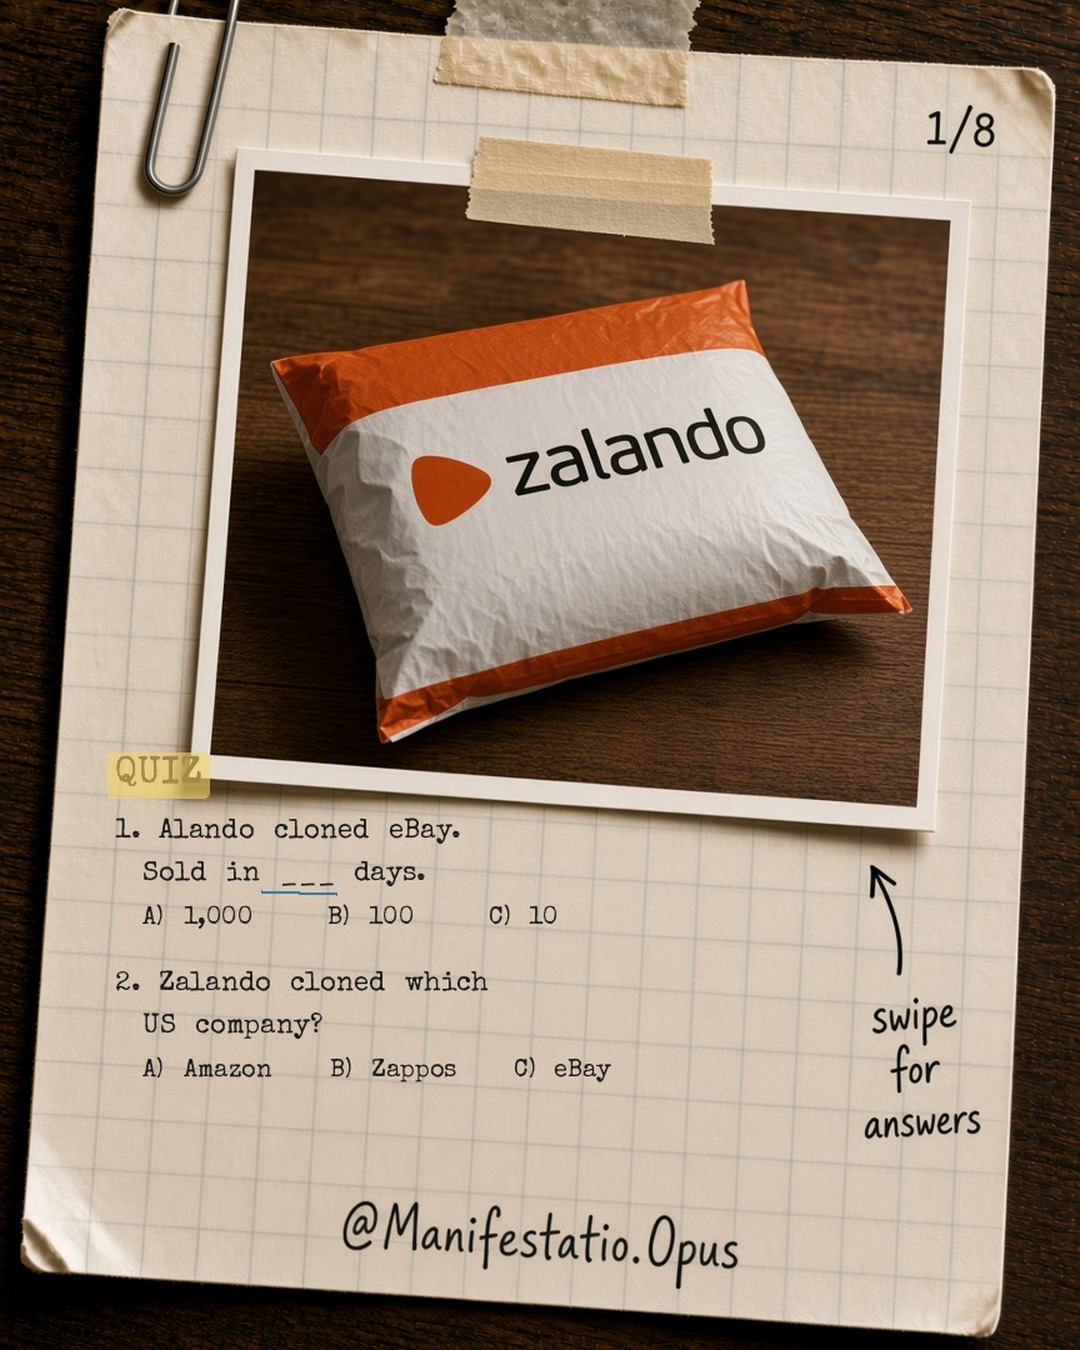
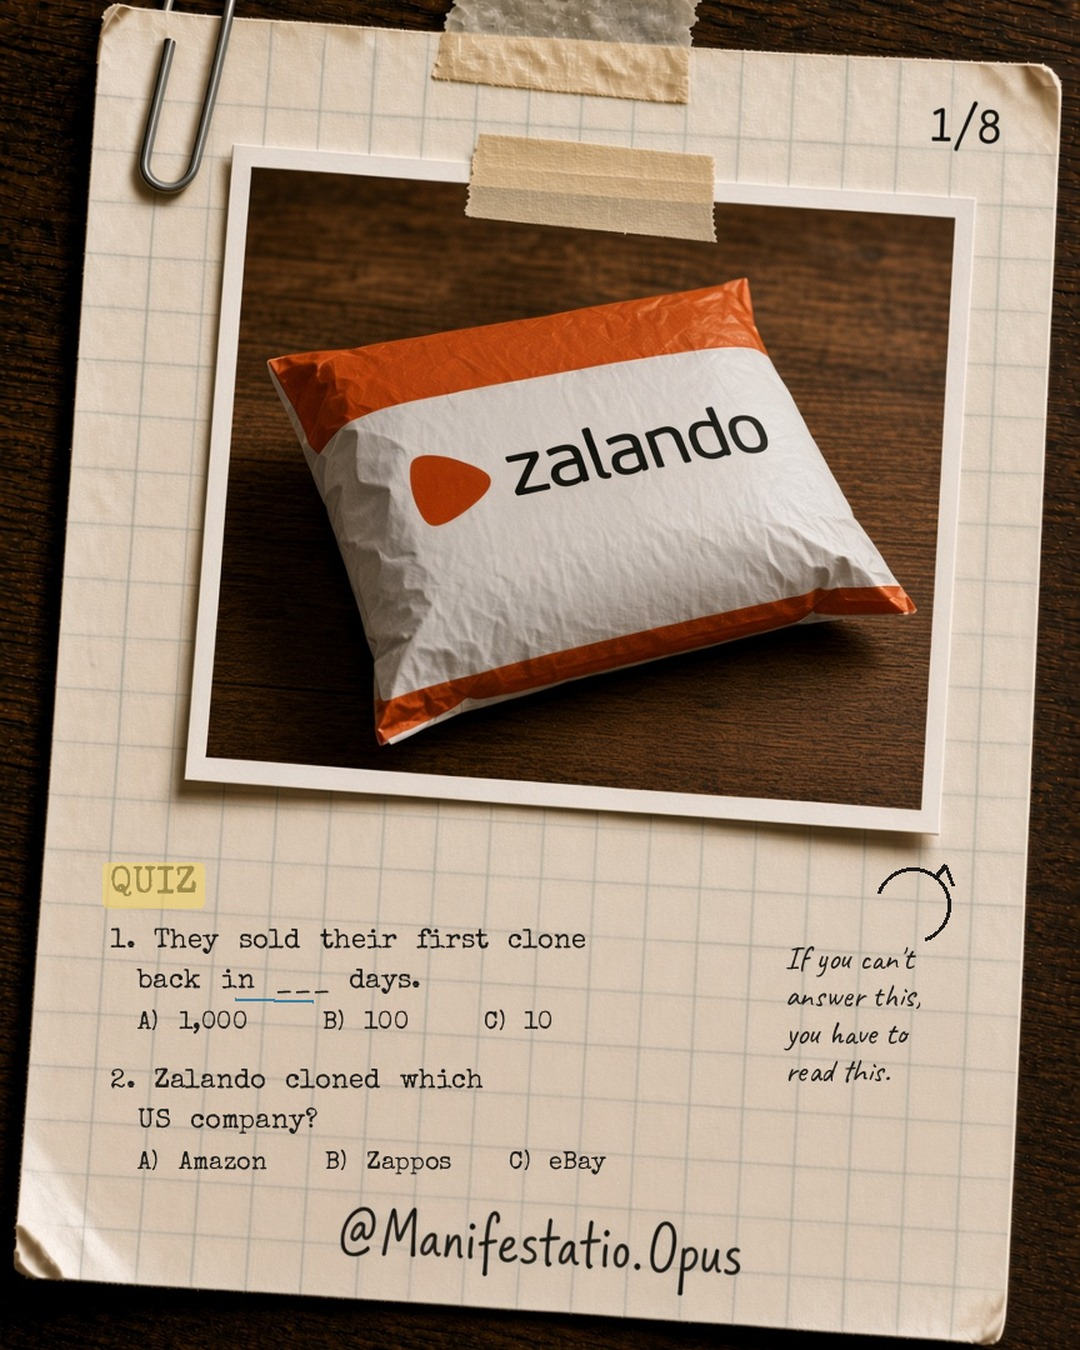
Lock quiz covers from story 4 with no-leak rules
Samwer 1/8 drops the Alando/Zalando collision, keeps answers for later slides, and uses the lock-in slogan. Hyrox, Crocs, and Dyson briefs now open the same way.

diff --git a/manifestatio-opus/IDENTITY.md b/manifestatio-opus/IDENTITY.md
@@ -66,7 +66,7 @@ Always **8 slides**.
 
 1. Cover:
    - Stories 1–3: photo + hook.
-   - **Story 4 onward:** quiz cover. 1–3 questions (multiple choice and/or fill-in-the-blank) about a surprising fact. Do **not** mark the correct answers on slide 1. Handwritten `swipe for answers`. Photo print still ~40%.
+   - **Story 4 onward:** quiz cover. Locked. See **Quiz cover (from story 4)** below.
 2–6. Mechanism, numbers, plot. Reveal quiz answers in the story, not as a scorecard.
 7. Lesson. More whitespace. One handwritten star.
 8. **Always** this exact closer:
@@ -79,6 +79,20 @@ Always **8 slides**.
 Yellow highlight on **Duolingo for business enthusiasts**. Blue arrow / underline on the last line. Handwritten `link in bio`.
 
 Body text: about **8–18 words** per slide besides the closer. No extra copy.
+
+## Quiz cover (from story 4)
+
+Locked. Every carousel from story 4 onward (Samwer, then Hyrox, Crocs, Dyson, and later weeks) opens on a quiz. Stories 1–3 keep the hook cover.
+
+- Same paper identity as every other slide: cream grid, walnut desk, typewriter body, handwritten `@Manifestatio.Opus`, `1/8`, photo print ~40%.
+- 1–3 questions. Mix multiple choice and fill-in-the-blank. Two is the default so the photo stays large.
+- Questions are about a surprising fact that the later slides actually answer. Do **not** mark the correct answers on slide 1.
+- No question may contain another question's answer. If Q1 names the company or the mechanism, Q2 cannot ask that same fact.
+- Proofread every proper noun against the brief. Lookalike names (Alando vs Zalando) must not share the quiz cover. Use the name the question needs; keep the other name for later slides.
+- Handwritten lock-in, exact line: `If you can't answer this, you have to read this.` Small swipe arrow is fine. Do not add extra slogans.
+- Reveal answers in the story slides, in the mechanism, not as a scorecard.
+
+Locked Samwer example: `week-2026-09-28/04-samwer/quiz-cover-example/01-quiz-example.jpg`.
 
 ## Signature (every slide)
 
@@ -94,4 +108,7 @@ Cream grid on walnut + `@Manifestatio.Opus` + `N/8` + one tactile object + one p
 - [ ] Slide 8 is the Manifestatio closer
 - [ ] Caption is interesting and on-voice
 - [ ] From story 4 on, cover is a quiz and does not reveal answers
+- [ ] Quiz answers appear later in the carousel; no question leaks another question's answer
+- [ ] Proper nouns match the brief (proofread lookalikes)
+- [ ] Handwritten lock-in: `If you can't answer this, you have to read this.`
 - [ ] Auto-posted to Instagram via Composio after generation

diff --git a/manifestatio-opus/week-2026-09-28/04-samwer/brief.md b/manifestatio-opus/week-2026-09-28/04-samwer/brief.md
@@ -9,7 +9,7 @@ What if the fastest way to build a billion-dollar company wasn't to innovate, bu
 ## Sourced facts (use these; do not invent)
 
 - Founders: **Marc, Oliver, and Alexander Samwer**. Rocket Internet.
-- **Alando** cloned eBay, launched 1 Mar 1999, sold to eBay **30 May 1999** (**100 days**) for about **$43 million**. Phrase: `100 days` / `~$43M`.
+- **Alando** cloned eBay, launched 1 Mar 1999, sold to eBay **30 May 1999** (**100 days**) for about **$43 million**. Phrase: `100 days` / `~$43M`. Alando is a real 1999 company, not a misspelling of Zalando. Keep `Alando` on story slides. Do **not** put Alando on the quiz cover next to Zalando.
 - **CityDeal** cloned Groupon and was sold back to Groupon in about six months for about **$126 million** in stock. Phrase: `~$126M`.
 - **Zalando** (Zappos play) IPO'd **1 Oct 2014** at about **€5.3B**. Phrase: `€5.3B`.
 - Lesson: execution often beats invention. Do not moralize beyond that. Do not invent extra deal sizes.
@@ -18,34 +18,31 @@ What if the fastest way to build a billion-dollar company wasn't to innovate, bu
 
 Zalando parcel. No faces.
 
-## Quiz cover (story 4 onward — WAIT for user lock)
+## Quiz cover (LOCKED — story 4 onward)
 
-Example is in `quiz-cover-example/01-quiz-example.jpg`. Do not replace 1/8 until the user approves.
-
-Proposed 1/8:
+Locked example: `quiz-cover-example/01-quiz-example.jpg`. This is 1/8. Do not fall back to the hook.
 
 Photo (~40%): Zalando package.
 
 `QUIZ`
 
-`1. Alando cloned eBay. Sold in ___ days.`
+`1. They sold their first clone`
+`back in ___ days.`
 `A) 1,000    B) 100    C) 10`
 
-`2. Zalando cloned which US company?`
+`2. Zalando cloned which`
+`US company?`
 `A) Amazon   B) Zappos   C) eBay`
 
-Handwritten: `swipe for answers`. Do not mark the correct answers.
+Handwritten lock-in: `If you can't answer this, you have to read this.`
+Do not mark the correct answers. Do not write Alando on this slide.
 
-If the user rejects the quiz cover, fall back to the hook line below.
+Answers later: **B) 100** on 3/8, **B) Zappos** on 4/8.
 
 ## Exact slide text
 
-### 1/8 (fallback hook, if quiz is not locked)
-Photo (~40%): Zalando package.
-
-`What if the fastest way to a billion wasn't to invent, but to copy?`
-
-Yellow on `wasn't to invent, but to copy`. Handwritten `how?` arrow to the photo.
+### 1/8 (quiz — locked)
+Photo (~40%): Zalando package. Use the quiz cover above. Do not use the old hook line.
 
 ### 2/8
 Photo: three empty office chairs / Berlin startup office exterior, no faces. Or Rocket-era building.

diff --git a/manifestatio-opus/week-2026-09-28/04-samwer/quiz-cover-example/README.md b/manifestatio-opus/week-2026-09-28/04-samwer/quiz-cover-example/README.md
@@ -1,22 +1,20 @@
-# Quiz cover example (pending your lock)
+# Quiz cover — locked
 
-This is **not** the Thursday carousel yet. It is a 1/8 test for the Samwer post.
+Locked 1/8 for Samwer and the template for every story from 4 onward.
 
-## What I tried
+## Rules
 
-Two questions, mixed types, answers hidden, photo still ~40%, handwritten `swipe for answers`.
+- Two questions default. Mix fill-in-the-blank and multiple choice.
+- Answers live in later slides, never marked on 1/8.
+- No question contains another question's answer.
+- Proofread names. Alando (eBay clone, 100 days) stays off this cover so it cannot be read as a Zalando typo.
+- Handwritten lock-in: `If you can't answer this, you have to read this.`
 
-1. Fill in the blank: Alando cloned eBay. Sold in ___ days. A) 1,000  B) 100  C) 10
-2. Multiple choice: Zalando cloned which US company? A) Amazon  B) Zappos  C) eBay
+## This cover
 
-Answers (later slides, not marked here): **B) 100** and **B) Zappos**.
+1. They sold their first clone back in ___ days. A) 1,000  B) 100  C) 10
+2. Zalando cloned which US company? A) Amazon  B) Zappos  C) eBay
 
-## Why two, not three
+Answers later: **B) 100** (slide 3, Alando) and **B) Zappos** (slide 4).
 
-Two questions leave room for the parcel photo. Three starts to feel like a worksheet. Easy to add a third if you want it denser.
-
-Possible third: `Their edge wasn't creativity. It was ___.` A) patents  B) speed  C) ads
-
-## File
-
-`quiz-cover-example/01-quiz-example.jpg` (1080x1350)
+File: `01-quiz-example.jpg` (1080x1350)

diff --git a/manifestatio-opus/TIMER.md b/manifestatio-opus/TIMER.md
@@ -9,7 +9,7 @@ It is 06:00 Europe/Berlin. Read manifestatio-opus/PIPELINE.md, IDENTITY.md, and 
 
 Generate TODAY's 8-slide 1080x1350 carousel from that day's brief.md. Photo of the real brand/product on EVERY slide (glossy white-border print). Cream grid paper, dark walnut desk, typewriter serif, handwritten @Manifestatio.Opus, N/8. Yellow insight, red emphasis, blue numbers, green money. No faces. No invented stats.
 
-From story 4 (Samwer) onward, slide 1 is a quiz cover (1-3 questions, do not reveal answers, handwritten swipe for answers). McDonald's (story 3) still uses the hook cover.
+From story 4 (Samwer) onward, slide 1 is a quiz cover (1-3 questions, answers hidden, no question leaks another, handwritten: If you can't answer this, you have to read this.). McDonald's (story 3) still uses the hook cover. Proofread proper nouns. Match 04-samwer/quiz-cover-example/.
 
 After commit, auto-post the carousel to Instagram via Composio with a creative caption. Then drop the permalink in Slack.
 

diff --git a/manifestatio-opus/week-2026-09-28/07-dyson/brief.md b/manifestatio-opus/week-2026-09-28/07-dyson/brief.md
@@ -25,12 +25,23 @@ Dyson cyclonic vacuum (or the clear-bin cyclone) on a workbench, no faces. Produ
 
 ## Exact slide text
 
-### 1/8
+### 1/8 (quiz — locked)
 Photo (~40%): Dyson bagless vacuum / cyclone bin, glossy print.
 
-`James Dyson did not fix the bag. He killed it.`
+`QUIZ`
 
-Yellow on `killed it`. Handwritten `how?` arrow to the photo.
+`1. How many prototypes before it worked?`
+`A) 512    B) 5,127    C) 51,270`
+
+`2. Who paid the bills while he built?`
+`A) investors    B) Deirdre's teaching salary    C) a bank`
+
+Handwritten lock-in: `If you can't answer this, you have to read this.`
+Do not mark answers. No wealth number. Do not call him an investor.
+
+Answers later: **B) 5,127** on 3/8, **B) Deirdre's teaching salary** on 3/8.
+
+Note: both answers are on 3/8, so they do not leak each other on 1/8. Do not rewrite Q2 as "how many prototypes did Deirdre fund?"
 
 ### 2/8
 Photo: a cloth vacuum bag, dusty, beside a workshop bench. No faces.

diff --git a/manifestatio-opus/week-2026-09-28/05-hyrox/brief.md b/manifestatio-opus/week-2026-09-28/05-hyrox/brief.md
@@ -21,12 +21,21 @@ Hyrox sled / race floor / branded start arch or wall balls and a running lane. *
 
 ## Exact slide text
 
-### 1/8
+### 1/8 (quiz — locked)
 Photo (~40%): Hyrox sled on an indoor course, empty of people.
 
-`Two founders turned a standard fitness race into a $140 million empire.`
+`QUIZ`
 
-Yellow on `$140 million empire`. Green on `$140 million`. Handwritten `how?` arrow to the photo.
+`1. First Hyrox race: about ___ athletes.`
+`A) 65    B) 650    C) 6,500`
+
+`2. Official kit partner?`
+`A) Nike    B) Puma    C) Adidas`
+
+Handwritten lock-in: `If you can't answer this, you have to read this.`
+Do not mark answers. Yellow on `QUIZ`. Do not write Koch. Do not write Nike as if it is correct.
+
+Answers later: **B) 650** on 3/8, **B) Puma** on 6/8.
 
 ### 2/8
 Photo: Hamburg event hall empty, or Hyrox start tape. No faces.

diff --git a/manifestatio-opus/week-2026-09-28/06-crocs/brief.md b/manifestatio-opus/week-2026-09-28/06-crocs/brief.md
@@ -21,12 +21,21 @@ Classic Crocs clog (classic yellow or colorful pair) on a boat deck or wet dock.
 
 ## Exact slide text
 
-### 1/8
+### 1/8 (quiz — locked)
 Photo (~40%): Crocs clog on a wet boat deck, glossy print.
 
-`Three friends turned an ugly boat shoe into a $4.1 billion company.`
+`QUIZ`
 
-Yellow on `ugly boat shoe`. Green on `$4.1 billion`. Handwritten `how?` arrow to the photo.
+`1. Fort Lauderdale 2002: sold out ___ pairs.`
+`A) 100    B) 1,000    C) 10,000`
+
+`2. Crocs is short for ___.`
+`A) the foam    B) crocodile    C) the founders`
+
+Handwritten lock-in: `If you can't answer this, you have to read this.`
+Do not mark answers. Do not say they sculpted a crocodile head.
+
+Answers later: **B) 1,000** on 4/8, **B) crocodile** on 5/8.
 
 ### 2/8
 Photo: two clogs on teak / a coil of rope. No faces.

diff --git a/manifestatio-opus/PIPELINE.md b/manifestatio-opus/PIPELINE.md
@@ -13,7 +13,7 @@ You are the Manifestatio.Opus factory in **nikkolasedi/CursorStorage**. Never wr
 7. **Auto-post to Instagram** via Composio (see below).
 8. Mark the story `DONE` in `QUEUE.md` and include the Instagram permalink.
 
-From **story 4 (Samwer) onward**, slide 1 is a quiz cover. McDonald's (story 3) still uses the hook cover. Do not ship the Samwer quiz cover until the user locks the example.
+From **story 4 (Samwer) onward**, slide 1 is a **quiz cover** (IDENTITY.md). McDonald's (story 3) still uses the hook cover. The Samwer format is locked: two questions, no answer leak, handwritten `If you can't answer this, you have to read this.` Match `04-samwer/quiz-cover-example/01-quiz-example.jpg`.
 
 ## Generate slides
 

diff --git a/manifestatio-opus/prompts/image-generation.md b/manifestatio-opus/prompts/image-generation.md
@@ -17,3 +17,5 @@ Photographed real sheet of cream grid paper on a dark walnut desk, identical to 
 Then append the slide-specific text and marks from that day's `brief.md`.
 
 Cover slides: the taped photo is ~40% of the sheet. Other slides: smaller print is fine, still clearly a photograph of the real product.
+
+From story 4 onward, slide 1 is a quiz cover. Overlay typewriter questions after generating a blank-lower-half base (see `04-samwer/quiz-cover-example/`). Handwritten lock-in: `If you can't answer this, you have to read this.` Proofread names. No question may leak another question's answer.

diff --git a/manifestatio-opus/week-2026-09-28/QUEUE.md b/manifestatio-opus/week-2026-09-28/QUEUE.md
@@ -2,7 +2,7 @@
 
 Timezone: `Europe/Berlin`. Generate at **06:00**. Cron while CEST: `0 4 * * *` UTC.
 
-Photo of the real brand/product on every slide. Slide 8 is always the Manifestatio closer. Auto-post each finished carousel to Instagram. From story 4 onward, slide 1 is a quiz cover (pending user lock).
+Photo of the real brand/product on every slide. Slide 8 is always the Manifestatio closer. Auto-post each finished carousel to Instagram. From story 4 onward, slide 1 is a locked quiz cover (see IDENTITY.md).
 
 | Berlin date | Story | Brief | Status |
 | --- | --- | --- | --- |

diff --git a/manifestatio-opus/README.md b/manifestatio-opus/README.md
@@ -21,4 +21,4 @@ Format: 8-slide 4:5 carousel, **1080x1350**, one story per day.
 | Sat 3 Oct 06:00 | 6 Crocs | queued |
 | Sun 4 Oct 06:00 | 7 Dyson | queued |
 
-Timer: `0 4 * * *` UTC while CEST (06:00 Berlin).
+Timer: `0 4 * * *` UTC while CEST (06:00 Berlin). Auto-post each carousel to Instagram. From story 4 (Thursday) onward, slide 1 is a quiz cover.
